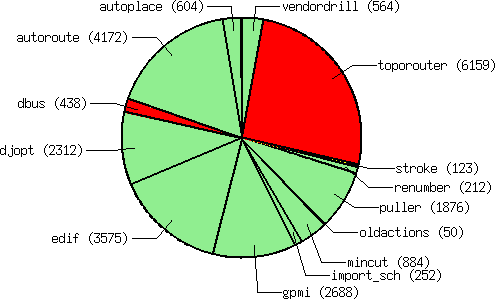
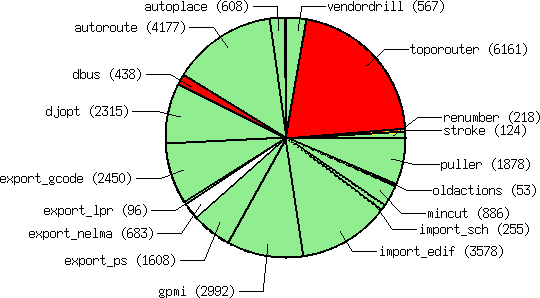
[mods] -Change: move gcode and nelma from hid to plugin
git-svn-id: svn://repo.hu/pcb-rnd/trunk@1269 1d61de99-560f-4dba-8957-1e505d42358b

diff --git a/doc-rnd/mods/index.html b/doc-rnd/mods/index.html
@@ -58,11 +58,11 @@ Below is a table with the summary of core plugins.
 <tr><th>module <th>size [sloc] <th> status <th> configure<br>default  <th> description
 
 
-<tr><th align=left>autoplace<td>604
+<tr><th align=left>autoplace<td>608
 <td bgcolor="lightgreen" > works
 <td bgcolor="lightgreen"> buildin
 <td> Automatically place elements. 
-<tr><th align=left>autoroute<td>4172
+<tr><th align=left>autoroute<td>4177
 <td bgcolor="lightgreen" > works
 <td bgcolor="lightgreen"> buildin
 <td> Automatically route selected or all rats. This is the original autorouter. 
@@ -71,50 +71,63 @@ Below is a table with the summary of core plugins.
 <br> (TODO: needs scconfig support)
 <td bgcolor="red"> disabled
 <td> Remote control PCB using DBUS. 
-<tr><th align=left>djopt<td>2312
+<tr><th align=left>djopt<td>2315
 <td bgcolor="lightgreen" > works
 <td bgcolor="lightgreen"> buildin
 <td> Various board optimization algorithms. 
-<tr><th align=left>edif<td>3575
+<tr><th align=left>export_gcode<td>2450
 <td bgcolor="lightgreen" > works
 <td bgcolor="lightgreen"> buildin
-<td> Import code for netlists in the EDIF format. 
-<tr><th align=left>gpmi<td>2688
+<td> Export to gcode 
+<tr><th align=left>export_lpr<td>96
+<td bgcolor="lightgreen" > works
+<td bgcolor="lightgreen"> buildin
+<td> Export to lpr (using export_ps to generate postscript) 
+<tr><th align=left>export_nelma<td>683
+<tr><th align=left>export_ps<td>1608
+<td bgcolor="lightgreen" > works
+<td bgcolor="lightgreen"> buildin
+<td> Export postscript or embedded postscript. 
+<tr><th align=left>gpmi<td>2992
 <td bgcolor="lightgreen" > works
 <td bgcolor="lightgreen"> buildin
 <br> (if gpmi is installed)
 <td> Scriptable plugin system with about 10 scripting languages supported and dynamic load/unload of scripts that can manipulate the GUI, the board, can implement exporters, etc. 
-<tr><th align=left>import_sch<td>252
+<tr><th align=left>import_edif<td>3578
+<td bgcolor="lightgreen" > works
+<td bgcolor="lightgreen"> buildin
+<td> Import code for netlists in the EDIF format. 
+<tr><th align=left>import_sch<td>255
 <td bgcolor="lightgreen" > works
 <td bgcolor="lightgreen"> buildin
 <td> Imports element and netlist data from the schematics (or some other source). 
-<tr><th align=left>mincut<td>884
+<tr><th align=left>mincut<td>886
 <td bgcolor="lightgreen" > works
 <td bgcolor="lightgreen"> buildin
 <td> Use the minimal cut algorithm to indicate shorts: instead of highlighting two random pins/pads, try to highlight the least number of objects that connect the two networks. 
-<tr><th align=left>oldactions<td>50
+<tr><th align=left>oldactions<td>53
 <td bgcolor="lightgreen" > works
 <td bgcolor="red"> disabled
 <td> Random collection of old/obsolete actions. Bell(): audible feedback; DumpLibrary(): print footprint library on stdout 
-<tr><th align=left>puller<td>1876
+<tr><th align=left>puller<td>1878
 <td bgcolor="lightgreen" > works
 <td bgcolor="lightgreen"> buildin
 <td> Pull traces to minimize their length. 
-<tr><th align=left>renumber<td>212
+<tr><th align=left>renumber<td>218
 <td bgcolor="lightgreen" > works
 <td bgcolor="lightgreen"> buildin
 <td> Renumber elements (renaming them) and generate a text file for back annotation. 
-<tr><th align=left>stroke<td>123
+<tr><th align=left>stroke<td>124
 <td bgcolor="yellow" > partially works (doesn't work with lesstif; works with the gtk hid, but there's no zoom bindings)
 <td bgcolor="red"> disabled
 <br> (requires libstroke installed)
 <td> Gesture recognition with libstroke. 
-<tr><th align=left>toporouter<td>6159
+<tr><th align=left>toporouter<td>6161
 <td bgcolor="red" > fails
 <br> (infinite loop in gts)
 <td bgcolor="red"> disabled
 <td> Automatically route selected or all rats using a topological algorithm. This is the new autorouter from 2009. 
-<tr><th align=left>vendordrill<td>564
+<tr><th align=left>vendordrill<td>567
 <td bgcolor="lightgreen" > works
 <td bgcolor="lightgreen"> buildin
 <td> Vendor drill mapping. 

diff --git a/scconfig/hooks.c b/scconfig/hooks.c
@@ -21,8 +21,6 @@ const char *exporter_list[] = {
 	"png",   "libs/gui/gd/gdImagePng/presents",
 	"gif",   "libs/gui/gd/gdImageGif/presents",
 	"jpg",   "libs/gui/gd/gdImageJpeg/presents",
-	"gcode", "libs/gui/gd/presents",
-	"nelma", "libs/gui/gd/presents",
 	NULL, NULL
 };
 
@@ -95,6 +93,14 @@ const arg_auto_set_t disable_libs[] = { /* list of --disable-LIBs and the subtre
 	{"disable-export_lpr", "/local/pcb/export_lpr/enable",  arg_false,     "$do not compile the lpr printer"},
 	{"buildin-export_lpr", "/local/pcb/export_lpr/buildin", arg_true,      "$static link the lpr printer into the executable"},
 	{"plugin-export_lpr",  "/local/pcb/export_lpr/buildin", arg_false,     "$the lpr printer is a dynamic loadable plugin"},
+
+	{"disable-export_gcode", "/local/pcb/export_gcode/enable",  arg_false,     "$do not compile the gcode exporter"},
+	{"buildin-export_gcode", "/local/pcb/export_gcode/buildin", arg_true,      "$static link the gcode exporter into the executable"},
+	{"plugin-export_gcode",  "/local/pcb/export_gcode/buildin", arg_false,     "$the gcode exporter is a dynamic loadable plugin"},
+
+	{"disable-export_nelma", "/local/pcb/export_nelma/enable",  arg_false,     "$do not compile the nelma exporter"},
+	{"buildin-export_nelma", "/local/pcb/export_nelma/buildin", arg_true,      "$static link the nelma exporter into the executable"},
+	{"plugin-export_nelma",  "/local/pcb/export_nelma/buildin", arg_false,     "$the nelma exporter is a dynamic loadable plugin"},
 
 	{NULL, NULL, NULL, NULL}
 };
@@ -211,6 +217,14 @@ int hook_postinit()
 	db_mkdir("/local/pcb/export_lpr");
 	put("/local/pcb/export_lpr/enable", strue);
 	put("/local/pcb/export_lpr/buildin", strue);
+
+	db_mkdir("/local/pcb/export_gcode");
+	put("/local/pcb/export_gcode/enable", strue);
+	put("/local/pcb/export_gcode/buildin", strue);
+
+	db_mkdir("/local/pcb/export_nelma");
+	put("/local/pcb/export_nelma/enable", strue);
+	put("/local/pcb/export_nelma/buildin", strue);
 
 	return 0;
 }
@@ -356,6 +370,13 @@ int hook_detect_target()
 		}
 	}
 
+	if (!istrue(get("libs/gui/gd/presents"))) {
+		if (istrue(get("/local/pcb/export_nelma/enable"))) {
+			report_repeat("WARNING: disabling the nelma exporter because libgd is not found or not configured...\n");
+			hook_custom_arg("disable-export_nelma", NULL);
+		}
+	}
+
 	return 0;
 }
 
@@ -494,6 +515,8 @@ int hook_generate()
 	printf("\n");
 	plugin_stat("export_ps:",              "/local/pcb/export_ps");
 	plugin_stat("export_lpr:",             "/local/pcb/export_lpr");
+	plugin_stat("export_gcode:",           "/local/pcb/export_gcode");
+	plugin_stat("export_nelma:",           "/local/pcb/export_nelma");
 
 	if (repeat != NULL)
 		printf("\n%s\n", repeat);

diff --git a/src_plugins/gpmi/pcb-gpmi/gpmi_plugin/gpmi_plugin.c b/src_plugins/gpmi/pcb-gpmi/gpmi_plugin/gpmi_plugin.c
@@ -13,7 +13,7 @@
 
 extern char *homedir; /* detected by pcn-rnd in InitPaths() */
 
-char *gpmi_cookie = "GPMI plugin cookie";
+const char *gpmi_cookie = "GPMI plugin cookie";
 
 /* This function is used to print a detailed GPMI error message */
 void gpmi_hid_print_error(gpmi_err_stack_t *entry, char *string)
@@ -118,14 +118,14 @@ static void register_actions()
 	act.description    = "Manage gpmi scripts";
 	act.syntax         = "TODO";
 	act.trigger_cb     = action_gpmi_scripts;
-	hid_register_action(&act, &gpmi_cookie);
+	hid_register_action(&act, gpmi_cookie);
 
 	act.name           = "rehash";
 	act.need_coord_msg = NULL;
 	act.description    = "Reload all gpmi scripts";
 	act.syntax         = "TODO";
 	act.trigger_cb     = action_gpmi_rehash;
-	hid_register_action(&act, &gpmi_cookie);
+	hid_register_action(&act, gpmi_cookie);
 }
 
 #ifndef PLUGIN_INIT_NAME
@@ -181,7 +181,7 @@ static void load_base_and_cfg(void)
 	*gpmi_asm_scriptname = gpmi_hid_asm_scriptname;
 
 	register_actions();
-	event_bind(EVENT_GUI_INIT, ev_gui_init, NULL, &gpmi_cookie);
+	event_bind(EVENT_GUI_INIT, ev_gui_init, NULL, gpmi_cookie);
 
 	hid_gpmi_load_dir(libdirh, 0);
 	hid_gpmi_load_dir(libdirg, 0);
@@ -210,8 +210,8 @@ static void load_base_and_cfg(void)
 
 static void plugin_gpmi_uninit(void)
 {
-	event_unbind_allcookie(&gpmi_cookie);
-	hid_remove_actions_by_cookie(&gpmi_cookie);
+	event_unbind_allcookie(gpmi_cookie);
+	hid_remove_actions_by_cookie(gpmi_cookie);
 	hid_gpmi_script_info_uninit();
 	gpmi_pkg_unload(pkg_scripts);
 	gpmi_uninit();

diff --git a/src_plugins/export_nelma/nelma.c b/src_plugins/export_nelma/nelma.c
@@ -66,6 +66,7 @@
 #include "data.h"
 #include "misc.h"
 #include "rats.h"
+#include "plugins.h"
 
 #include "hid.h"
 #include "../hidint.h"
@@ -995,7 +996,7 @@ static void nelma_set_crosshair(int x, int y, int a)
 
 #include "dolists.h"
 
-void hid_nelma_init()
+pcb_uninit_t hid_export_nelma_init()
 {
 	memset(&nelma_hid, 0, sizeof(HID));
 
@@ -1030,4 +1031,5 @@ void hid_nelma_init()
 	nelma_hid.set_crosshair = nelma_set_crosshair;
 
 	hid_register_hid(&nelma_hid);
+	return NULL;
 }

diff --git a/src_plugins/export_gcode/gcode.c b/src_plugins/export_gcode/gcode.c
@@ -33,6 +33,7 @@
  */
 
 #include "config.h"
+#include "plugins.h"
 
 #include <stdio.h>
 #include <stdarg.h>
@@ -860,7 +861,7 @@ static void gcode_set_crosshair(int x, int y, int a)
 
 HID gcode_hid;
 
-void hid_gcode_init()
+pcb_uninit_t hid_export_gcode_init()
 {
 	memset(&gcode_hid, 0, sizeof(HID));
 
@@ -895,4 +896,6 @@ void hid_gcode_init()
 	gcode_hid.set_crosshair = gcode_set_crosshair;
 
 	hid_register_hid(&gcode_hid);
+
+	return NULL;
 }

diff --git a/src_plugins/gpmi/pcb-gpmi/gpmi_plugin/gpmi_pkg/actions/actions.c b/src_plugins/gpmi/pcb-gpmi/gpmi_plugin/gpmi_pkg/actions/actions.c
@@ -81,7 +81,7 @@ int action_register(const char *name, const char *need_xy, const char *descripti
 	ctx->module = gpmi_get_current_module();
 	ctx->next   = NULL;
 
-	hid_register_action(&ctx->action, &gpmi_cookie);
+	hid_register_action(&ctx->action, gpmi_cookie);
 
 	gpmi_mod_cleanup_insert(ctx->module, cleanup_action, "p", ctx);
 

diff --git a/src/hid/common/actions.c b/src/hid/common/actions.c
@@ -72,7 +72,7 @@ void hid_register_actions(const HID_Action * a, int n, const char *cookie)
 	}
 }
 
-void hid_register_action(const HID_Action * a, void *cookie)
+void hid_register_action(const HID_Action * a, const char *cookie)
 {
 	hid_register_actions(a, 1, cookie);
 }

diff --git a/src_plugins/gpmi/pcb-gpmi/gpmi_plugin/gpmi_plugin.h b/src_plugins/gpmi/pcb-gpmi/gpmi_plugin/gpmi_plugin.h
@@ -1,4 +1,4 @@
-extern char *gpmi_cookie;
+extern const char *gpmi_cookie;
 extern int gpmi_hid_gui_inited; /* whether the gui is already initialzied */
 void gpmi_hid_print_error(gpmi_err_stack_t *entry, char *string);
 
